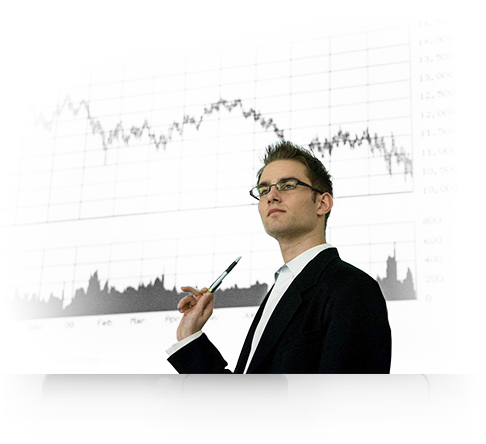
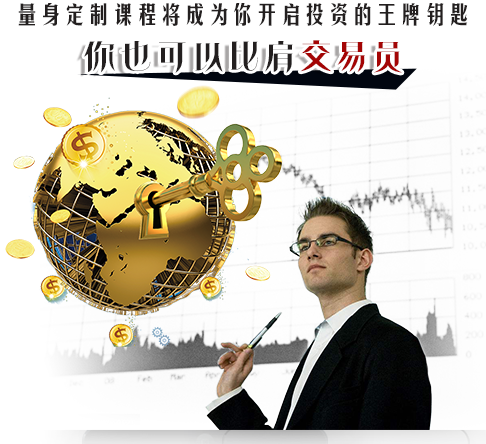
修改相关内容

diff --git a/index.html b/index.html
@@ -165,17 +165,20 @@
 
 						<!--Description-->
 						<div class="description column">
-						<h1>聆听顶级交易员大师课程！</h1>
+						<h1 style="text-align: center">花最短的时间进入投资市场 <br>成为下一个交易大神!</h1>
 
 
 						<ul class="detailsList">
-							<li>从小白到投资大师的蜕变。</li>
-							<li>线上一对一课程。</li>
-							<li>线下一对一解惑。</li>
-							<li>构建适合自己的交易模型。</li>
-							<li>专属复盘交易日志。</li>
-							<li>实际操盘训练。</li>
-							<li>投资工具应用。</li>
+							<li>从小白到投资大师的蜕变;</li>
+							<li>感受交易中的千万个机会;</li>
+							<li>探索交易如何稳定盈利;</li>
+							<li>体会惜败与险胜的微妙差距;</li>
+							<li>构建适合自己的交易模型; </li>
+							<li>专属复盘交易日志;</li>
+							<li>实际操盘训练;</li>
+							<li>投资工具应用;</li>
+							<li>线上一对一课程;</li>
+							<li>线下一对一解惑;</li>
 							<li>更多服务敬请期待...</li>
 						</ul>
 
@@ -353,7 +356,8 @@
 												<div class="ico column"><i class="icon-mobile"></i></div>
 												<div class="desc column">
 													<h2>大师宏观分析</h2>
-													<p>各主要据点均严格遵循该地区的监管机关法规。
+													<p>独立的经济理论，数十年的趋势 研究积淀。<br>
+														各主要据点均严格遵循地区的监 管机关法规。
 													</p>
 												</div>
 											</div>
@@ -364,8 +368,8 @@
 												<div class="ico column"><i class="icon-hourglass"></i></div>
 												<div class="desc column">
 													<h2>市场策略</h2>
-													<p>上市股票实时行情
-														基本资料、IPO、再融资、分红、公司公告、盈利预测等数据应有尽有。
+													<p>多年投资领域的实操，多学科结合 分析投资方法论。<br>
+														上市股票实时行情基本资料、IPO、 再融资、分红、公司公告、盈利预 测等数据应有尽有。
 													</p>
 												</div>
 											</div>
@@ -376,7 +380,10 @@
 												<div class="ico column"><i class="icon-megaphone"></i></div>
 												<div class="desc column">
 													<h2>个股商品货币</h2>
-													<p>提供国内外14家主要商品交易所行情，支持跨品种、跨市场套利监控， 6种强大分析工具， 及时更新大宗商品数据库基本面数据。
+													<p>提供国内外14家主要商品交易所行情;<br>
+														支持跨品种、跨市场套利监控， 6种
+														强大分析工具;<br>
+														及时更新大宗商品数据库基本面数据。
 													</p>
 												</div>
 											</div>
@@ -392,8 +399,10 @@
 												<div class="ico column"><i class="icon-eye"></i></div>
 												<div class="desc column">
 													<h2>实时技术分析</h2>
-													<p>支持全品种资产管理，提供丰富强大的组合监控与分析功能，实时动态监控组合盈亏与风险指标，图表化直观展示让投资管理得心应手。
-
+													<p>支持全品种资产管理，提供丰富强大 的组合监控与分析功能;<br>
+														实时动态监控组合盈亏与风险指标;
+														图表化直观展示让投资管理得心应手; <br>
+														随时掌握行业趋势与拐点的判断.
 
 
 													</p>
@@ -406,9 +415,10 @@
 												<div class="ico column"><i class="icon-lifebuoy"></i></div>
 												<div class="desc column">
 													<h2>新闻与研究报告</h2>
-													<p>实时跟踪180+个财经媒体、200+个行业网站，7x24小时更新，
-														中国近五十家证券或行业研究机构的研报发布平台。
-
+													<p>实时跟踪180+个财经媒体、 200+个行业网站;<br>
+														7*24小时更新资讯;<br>
+														中国近五十家证券或行业研究<br>
+														机构的研报发布平台。
 
 													</p>
 												</div>
@@ -420,7 +430,9 @@
 												<div class="ico column"><i class="icon-rocket"></i></div>
 												<div class="desc column">
 													<h2>每日分析</h2>
-													<p>7×24×365不间断的为金融机构、政府组织、企业、媒体提供准确、及时、完整的金融数据资讯。
+													<p>7*24H不间断为金融机构、政府组织、 企业、媒体提供准确、及时、完整的 金融数据资讯;<br>
+														随时掌握全球市场行情动向。
+
 													</p>
 												</div>
 											</div>
@@ -480,21 +492,26 @@
 													<h3><a href="#">交易员即时通讯工具</a></h3>
 													<div>
 														<p>
-														实时在线沟通，丰富的表情系统，可以发布信息，图片和网址链接。同步投屏，客服24小时在线。
-
+															• 实时在线交流，及时发布信息;<br>
+															• 共同协商解决各类投资疑难杂症;<br>
+															• 丰富的表情系统，图片和网站信息链接;<br> • 同步投屏，客服24小时在线;
 														</p>
 													</div>
 													<h3><a href="#">在线行情在线会议</a></h3>
 													<div>
 														<p>
-																在线会议，面对面交流更直观，强大的语音同步记录会议情况，方便会议结束后巩固会议内容，提供在线课程，敬请关注。
-
+															• 在线会议，面对面交流更及时更直观;<br>
+															• 强大的语音同步记录会议情况，方便会议结束后巩
+															固会议内容;<br>
+															• 提供在线课程，随时随地观看学习，了解资讯。
 														</p>
 													</div>
 													<h3><a href="#">数十万金融分析师资源</a></h3>
 													<div>
 														<p>
-																来自于全球最权威的金融师提供在线答疑解惑，规避投资风险，投资有风险，请谨慎参与。
+															• 来自于全球最权威的金融分析师提供在线答疑解惑，智 能的对话解疑机制;<br>
+															• 真正抓住突破的机会，学习独特的技术和操作能力;<br>
+															• 助力了解市场规则，规避投资风险，避免成为 “韭菜”。<br>
 
 														</p>
 													</div>
@@ -513,7 +530,7 @@
 										<!--Shortcontact-->
 										<div class="shortContact column">
 											<h1>社区介绍</h1>
-											<p>专属于交易员的社区，高级交易员常驻社区。为新加入的小伙伴提供优质的咨询解答服务，如果想成为我们的管理员，加入我们社区的大家庭，请赶紧加入吧。 </p>
+											<p>专属于交易员的高端金融社区，这里联合 各界力量与智慧，聚集了来自各界的投资 大神。 并有高级交易员常驻社区，为新加入的小 伙伴提供优质的咨询解答服务，如果想成 为我们的管理员，欢迎加入我们社区智慧 大家庭。 </p>
 												
 												<a class="shortContact" href="#contact"><i class="icon-mail-alt"></i>
 													进入社区</a>
@@ -558,22 +575,53 @@
 												<!--End intro-->
 
 
+<p style="text-align: center">
+										你想从一份工作中得到什么呢? <br>
+	一个宽广的职业发展平台; 一个实现自我价值的平台; <br>一份行业内极具竞争力的薪资; 一条公开透明的职业晋升通道; <br>
+	以上这些我们都能给到你。<br>
+										<b style="color: black;">所谓缘分就是你有种“怀才不遇”的无奈，
+	<br>而我们正好发着“知音难觅”的感慨~ <br></b>
+	如果你对以下岗位感兴趣，<br>
+	欢迎投递简历到邮箱:hr@indexweb.com
 
-										你想从一份工作中得到什么呢?一个宽广的职业发展平台; 一个实现自我价值的平台;一份行业内极具竞争力的薪资; 一条公开透明的职业晋升通道;以上这些我们都能给到你。
-										所谓缘分就是 你有种“怀才不遇”的无奈， 而我们正好发着“知音难觅”的感慨~
-										如果你对以下岗位感兴趣，欢迎投递简历到邮箱:hr@indexweb.com
-
-
+										</p>
 
 
 									</div>
 												<!--End Holder 960-->
 
-									</section>
-										<!--End pricing-->
-									
-									
-									
+
+						<div
+								style="max-width: 400px;margin: 10px auto;background-color: #FAFAFA;padding:
+								10px;border:
+						dotted #999999;display: block">
+							<!--End
+						pricing-->
+		<h1><br>
+			SQUIRREL
+			FINANCE<span class="orange" style="color: orange">独立分析师职位</span></h1>
+
+		岗位职责:<br>
+		<p style="text-align: left;font-size: 12px">
+			1.制定每日分析计划，撰写金融投资研究报告;<br>
+			2.分析国内外主要金融产品的大盘行情走势并定期录制财经节目; <br>
+			3.组织并完成演讲讲座，定期为需求者讲解市场最近趋势，以及对需求者进行指导; <br>
+			4.不定期进行公司员工培训;</p>
+		任职要求:<br>
+		<p style="text-align: left;font-size: 12px">1. 具有严密的逻辑思维和分析判断力，良好的书面和口头表达能力; <br>
+			2. 有一定市场综合分析能力，有较强的实战看盘能力;<br>
+			3. 语言风格专业且接地气，通俗易懂;<br>
+			4. 有自主学习能力;<br>
+			5. 具备相关从业资格证的优先考虑;<br>
+			6. 如果有相关直播经验，要求可适当放宽;</p>
+
+		<br>
+		<a class="shortContact" href="#contact"><i class="icon-mail-alt"></i>
+			投递简历</a>
+						<br><br>
+						</div>
+
+		</section>
 										<!--Client-->
 										<section id="client">
 										<!--Client container-->
@@ -587,24 +635,9 @@
 
 														<!--Client content-->
 														<div class="clientContent">
+															<h1>相关机构</h1>
 
-													<h1><span class="black">职位：</span> 独立分析师</h1>
 
-															岗位职责:<br>
-	<p style="text-align: left">
-															1.制定每日分析计划，撰写金融投资研究报告;<br>
-															2.分析国内外主要金融产品的大盘行情走势并定期录制财经节目; <br>
-															3.组织并完成演讲讲座，定期为需求者讲解市场最近趋势，以及对需求者进行指导; <br>
-															4.不定期进行公司员工培训;</p>
-															任职要求:<br>
-	<p style="text-align: left">1. 具有严密的逻辑思维和分析判断力，良好的书面和口头表达能力; <br>
-															2. 有一定市场综合分析能力，有较强的实战看盘能力;<br>
-															3. 语言风格专业且接地气，通俗易懂;<br>
-															4. 有自主学习能力;<br>
-															5. 具备相关从业资格证的优先考虑;<br>
-															6. 如果有相关直播经验，要求可适当放宽;</p>
-															<a class="shortContact" href="#contact"><i class="icon-mail-alt"></i>
-																投递简历</a>
 													<!--Client list-->
 													
 
